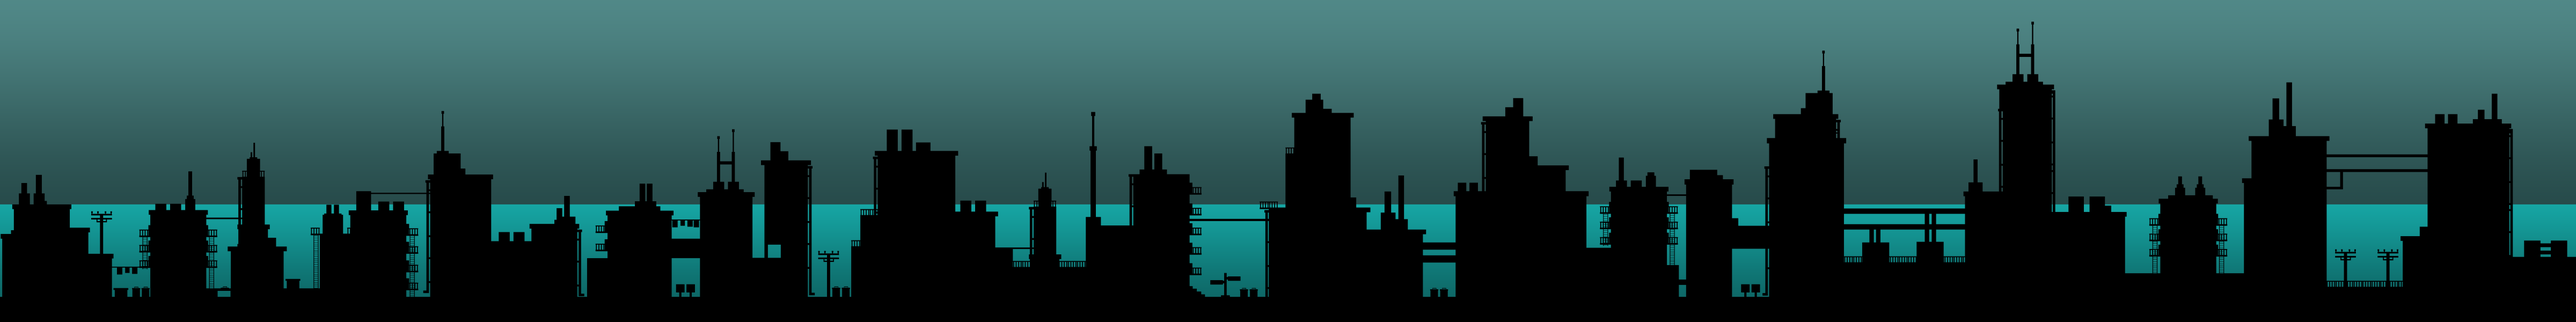
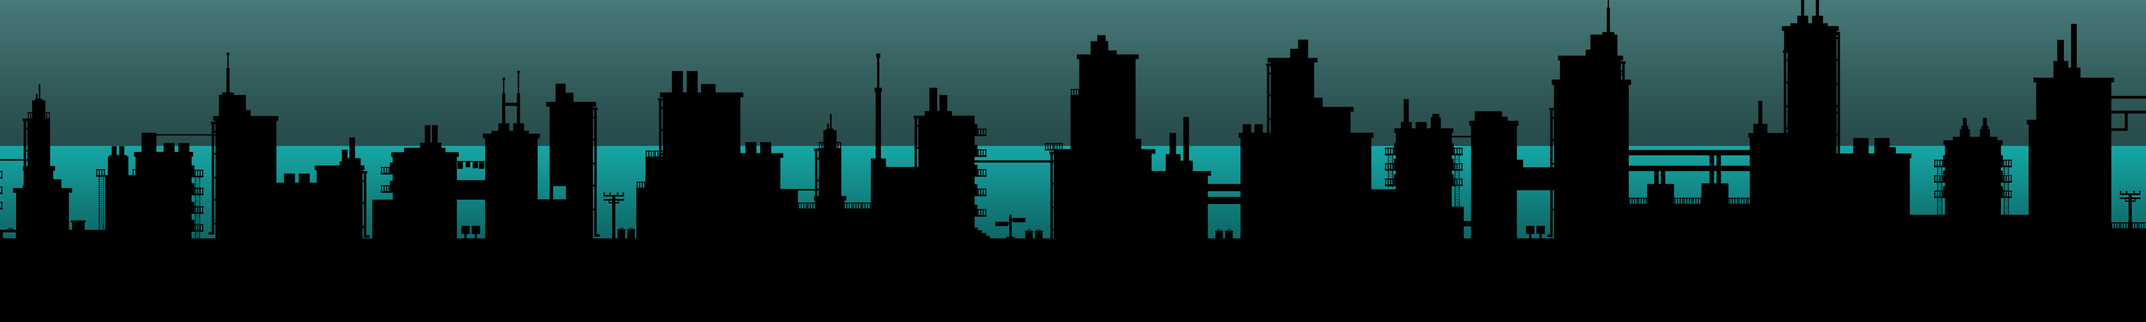
Новое достижение и изменение бэкграундов

diff --git a/main.py b/main.py
@@ -592,9 +592,9 @@ class GameManager:
         self.draw_hit_effect = False
         self.camera = Camera()
         self.bg_first = \
-            BackGround(-4000, DICTIONARY_SPRITES['Background'], all_sprites, background_group)
+            BackGround(-4000, DICTIONARY_SPRITES[f'Background{level_data}'], all_sprites, background_group)
         self.bg_second = \
-            BackGround(0, DICTIONARY_SPRITES['Background'], all_sprites, background_group)
+            BackGround(0, DICTIONARY_SPRITES[f'Background{level_data}'], all_sprites, background_group)
         self.hero, self.hero_pos_x, self.hero_pos_y, self.coord_checkpoints, self.exit_pos = \
             generate_level(load_level(map_path, is_save=load_from_save), (all_sprites, hero_group),
                            (bound_group, all_sprites))
@@ -637,7 +637,8 @@ class GameManager:
                   8: self.play_level_8}
         if not preinited:
             show_image_smoothly(DICTIONARY_SPRITES.get(f'Level_{level}_intro',
-                                                       pygame.Surface((800, 600))), screen.copy())
+                                                       pygame.Surface((800, 600))), screen.copy(),
+                                DICTIONARY_SPRITES[f'Background{level}'])
             self.level_init(level)
         return levels[level]()
 
@@ -1047,7 +1048,9 @@ class GameManager:
                         boss.kill()
                         show_image_smoothly(DICTIONARY_SPRITES['Level_8_intro'],
                                             screen.copy(), DICTIONARY_SPRITES['EmptyMenu'])
-                        return 8, "passed"
+                        if self.hero.health == 100:
+                            give_achievement('3')
+                        return 7, "passed"
                 except ExitToMenuException:
                     running_game = False
                 self.cur_dialog = []
@@ -1064,7 +1067,7 @@ def show_image_smoothly(image, bg_start=None, bg_end=None, mode=0):
     """
 
     if mode == 1:
-        bg = bg_end or DICTIONARY_SPRITES['Background']
+        bg = bg_end or DICTIONARY_SPRITES['Background1']
     else:
         bg = bg_start or DICTIONARY_SPRITES['EmptyMenu']
     alpha = 255 * (mode == 1)
@@ -1087,7 +1090,7 @@ def show_image_smoothly(image, bg_start=None, bg_end=None, mode=0):
                 break
             clock.tick(1)
             delta *= -1
-            bg = bg_end or DICTIONARY_SPRITES['Background']
+            bg = bg_end or DICTIONARY_SPRITES['Background1']
 
         if alpha == 0 and delta == -1:
             break
@@ -2229,7 +2232,11 @@ if __name__ == '__main__':
 
     DICTIONARY_SPRITES = {'Hero': load_image(r'Sprites\Semen\Semen_variant2.1.png'),
                           'Enemy': load_image(r'Sprites\Semen\Semen-test2.png'),
-                          'Background': load_image(r'Background\city_background_sunset — копия.png'),
+                          'Background1': load_image(r'Background\city_background_sunset.png'),
+                          'Background2': load_image(r'Background\city_background_3.png'),
+                          'Background3': load_image(r'Background\city_background_day.png'),
+                          'Background7': load_image(r'Background\city_background_night.png'),
+                          'Background8': load_image(r'Background\city_background_night.png'),
                           'Bound': load_image(r'Background\Constructions\asphalt.png'),
                           'InvisibleBound': load_image(r'Background\Constructions\empty.png'),
                           'Projectile': load_image(r'Background\Constructions\bag.png'),
@@ -2244,6 +2251,7 @@ if __name__ == '__main__':
                           'Settings_bg': load_image(rf'Background\Menu_dark.jpg'),
                           'Level_1_intro': load_image(r'Background\First_level_intro.png'),
                           'Level_2_intro': load_image(r'Background\Second_level_intro.png'),
+                          'Level_3_intro': load_image(r'Background\Third_level_intro.png'),
                           'Level_8_intro': load_image(r'Background\flash.png'),
                           'EmptyMenu': load_image(r'Background\Menu_empty.jpg'),
                           'magic_shield': load_image(r'Background\shield.png'),
@@ -2274,8 +2282,8 @@ if __name__ == '__main__':
                                  load_image('Achievements/road_to_hell.png')),
                            "2": (load_image('Achievements/Lena-detector.png'),
                                  load_image('Achievements/Lena-detector_text.png')),
-                           "3": (load_image('Achievements/unopened_title.png'),
-                                 load_image('Achievements/unopened_title.png')),
+                           "3": (load_image('Achievements/Invulnerable.png'),
+                                 load_image('Achievements/Invulnerable-text.png')),
                            "4": (load_image('Achievements/unopened_title.png'),
                                  load_image('Achievements/unopened_title.png')),
                            "5": (load_image('Achievements/unopened_title.png'),
@@ -2328,7 +2336,7 @@ if __name__ == '__main__':
     LoadData = None
     RestartLevelEvent = pygame.event.custom_type()
     MAX_LEVEL = 8
-    CUR_LEVEL = 7
+    CUR_LEVEL = 1
     HitSound = audio.get_sound(3)
 
     game = GameManager()
